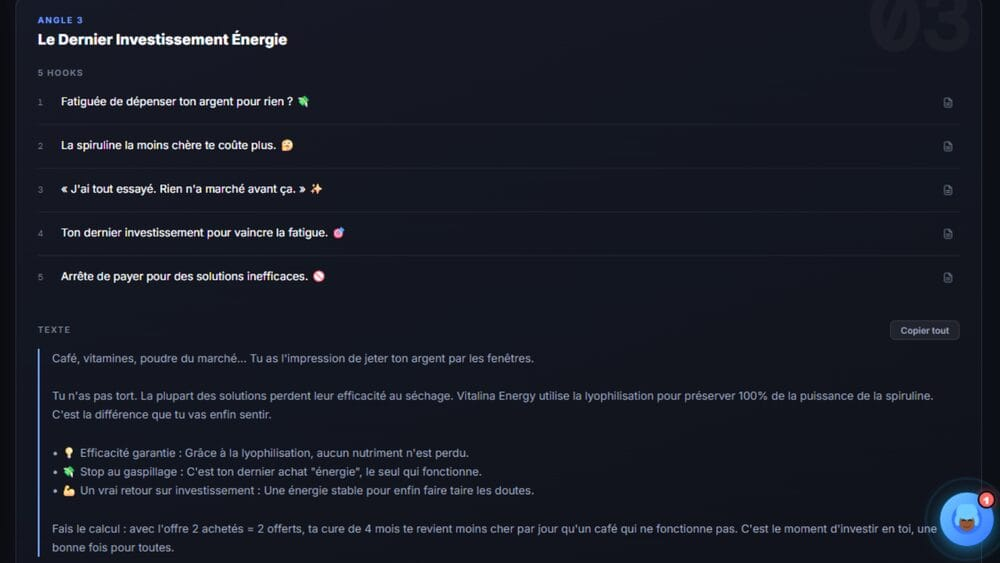
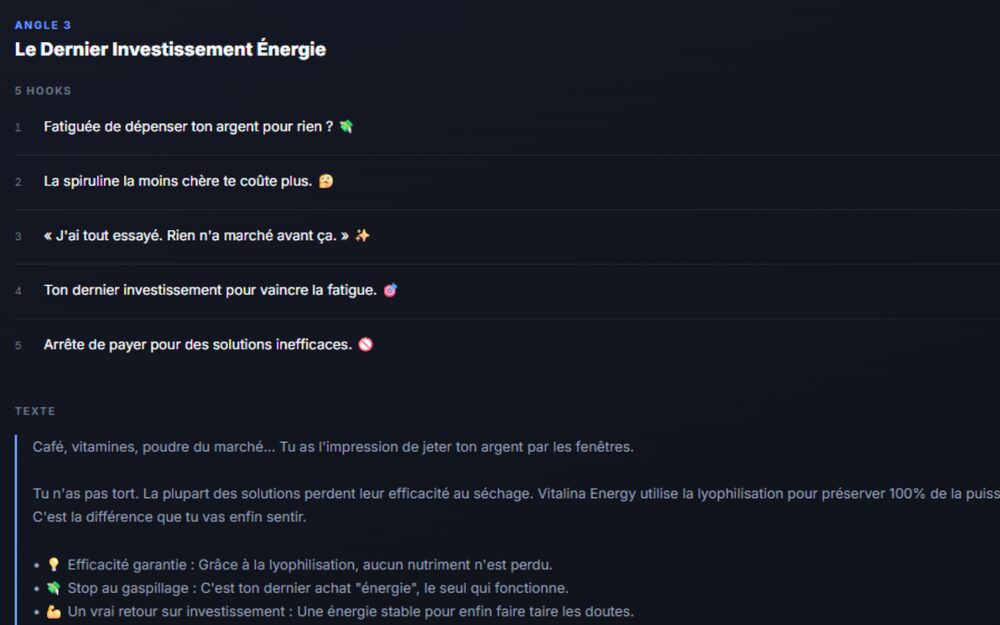
Nouvelles images section Ce que vous recevez (Galerie Creatives, Ad Copies, Donnees Marche) avec vraies captures Vitalina Energy

diff --git a/public/vente.html b/public/vente.html
@@ -546,7 +546,7 @@ a[href*="systeme.io"]{display:none!important;opacity:0!important;pointer-events:
 @keyframes cvr-grad{0%,100%{background-position:0% 50%}50%{background-position:100% 50%}}
 .cvr-sub{font-size:14px;color:#5A5D65!important;line-height:1.55;margin:0 0 48px;max-width:380px}
 .cvr-items{display:flex;flex-direction:column;gap:52px}
-.cvr-item-img{width:100%;aspect-ratio:16/9;background:#111318;border-radius:16px;overflow:hidden;margin-bottom:20px;border:1px solid rgba(255,255,255,0.06)}
+.cvr-item-img{width:100%;aspect-ratio:8/5;background:#111318;border-radius:16px;overflow:hidden;margin-bottom:20px;border:1px solid rgba(255,255,255,0.06)}
 .cvr-item-img img{width:100%;height:100%;object-fit:cover;display:block}
 .cvr-item-num{font-size:11px;font-weight:800;text-transform:uppercase;letter-spacing:2px;color:#1FB6FF!important;opacity:.6;margin-bottom:6px}
 .cvr-item-title{font-size:22px;font-weight:900;color:#fff!important;letter-spacing:-.5px;line-height:1.15;margin-bottom:8px}
